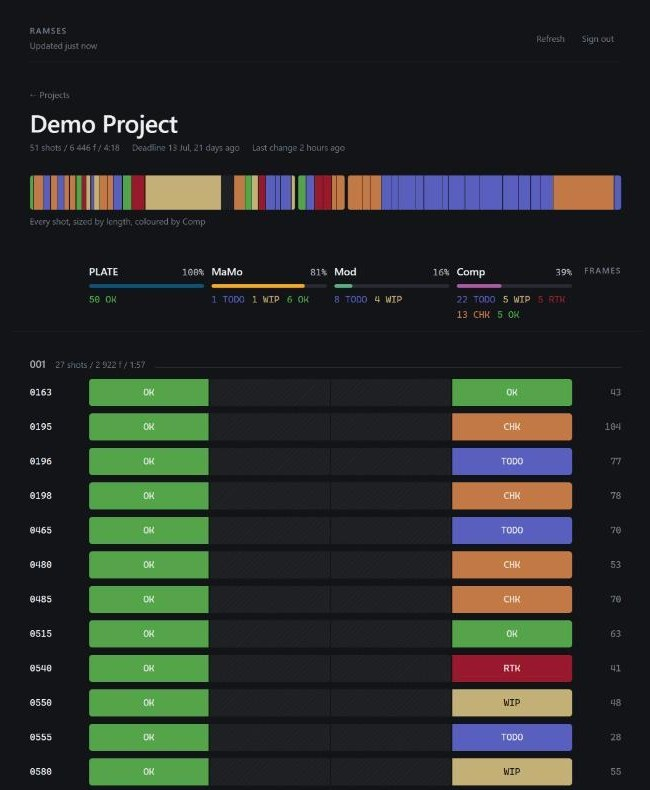
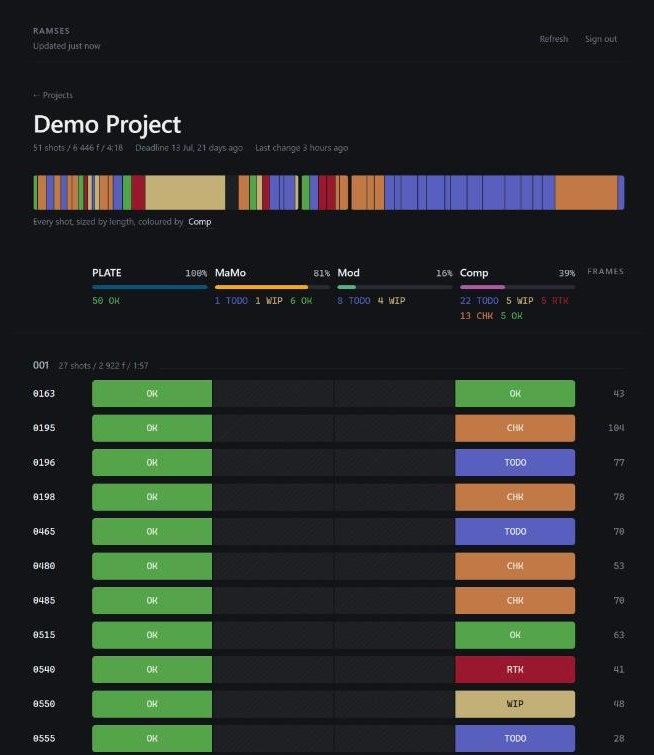
Reshoot the README screenshots
Both predated the step picker, the pipeline-derived colouring and the even
dividers, so they showed an older app than the one the README describes. The
caption now mentions that the colouring step can be changed, since the control
is visible in both images.

Same treatment as before: taken against the mock server so they show the
anonymised sample project, cropped to the content column, and ended between
shot rows. Two things the first pair had that these do not, both caught by
looking at the result rather than trusting the capture: the mouse cursor sat in
the middle of the desktop shot, and the phone shot carried the scrollbar down
its right edge.

diff --git a/README.md b/README.md
@@ -16,6 +16,8 @@ built yet.
 Every shot is a lane, segmented by pipeline step and coloured by its state. The
 ribbon at the top is the whole project: one block per shot, sized by its length
 in frames, so you can see where the work sits rather than only how much is left.
+It is coloured by the last step in your pipeline, and you can pick a different
+one.
 
 ## Requirements
 
